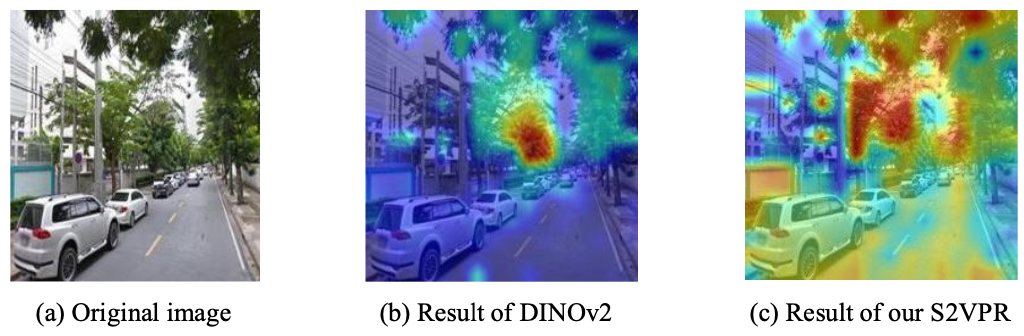
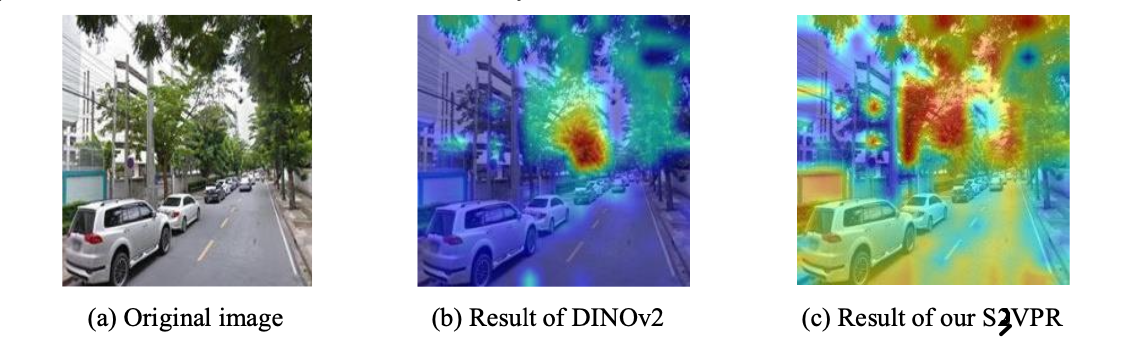
first commit

diff --git a/readme.md b/readme.md
@@ -4,11 +4,12 @@
 
 <p align="middle">
     <img src="assets/visualization.png" style="zoom: 40%">
-	<p>DINOv2 focuses on discriminative regions, such as trees; Based on the effect of DINOv2, S2VPR expands the range of discriminative regions.</p>
+	<p>DINOv2 focuses on discriminative regions, such as trees; Based on the effect of DINOv2, S3VPR expands the range of discriminative regions.</p>
 </p>
 
 <p align="middle">
     <img src="assets/token module.jpg" style="zoom: 50%">
+    <p>Taken module, the core of S3VPR.</p>
 </p>
 
 ## Train
